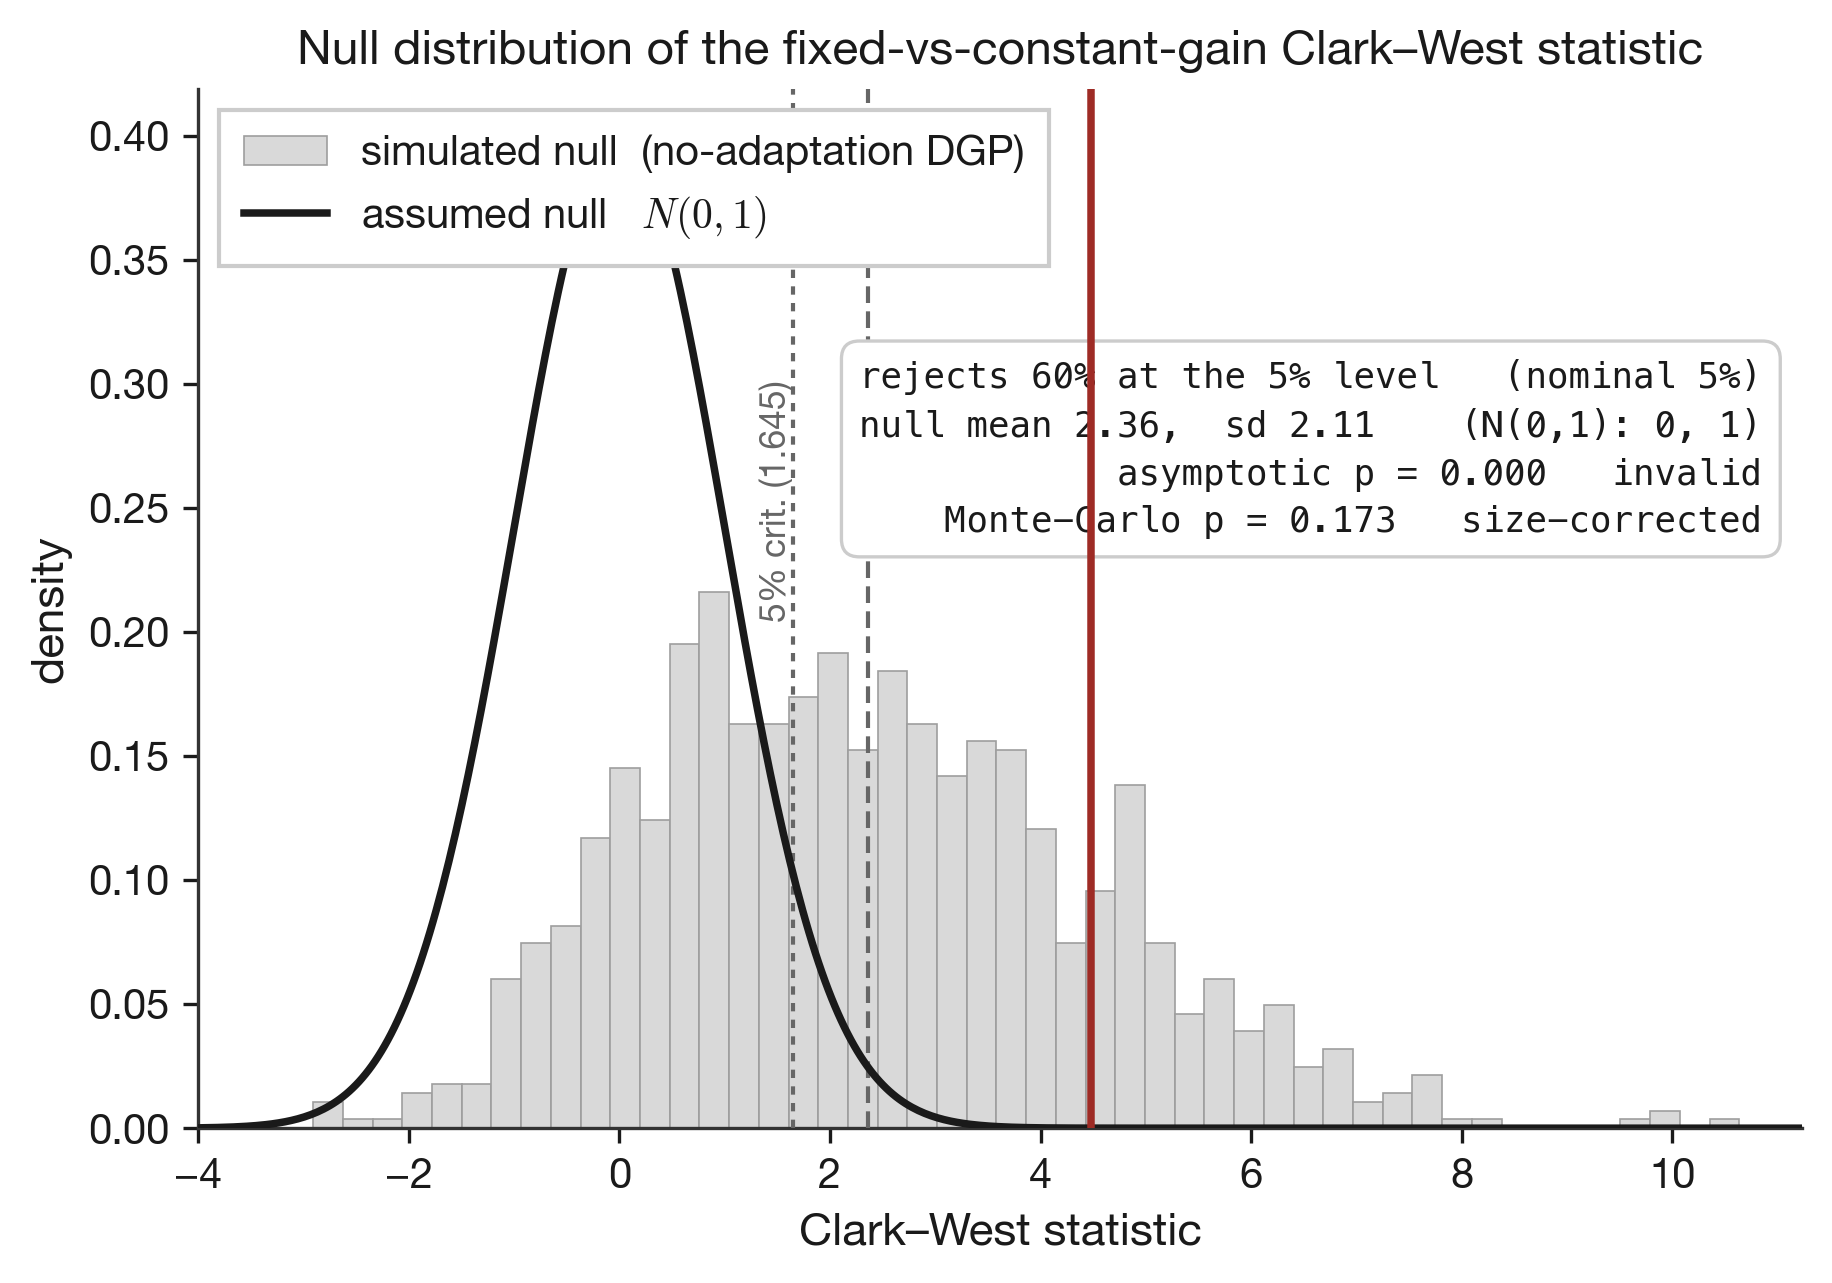
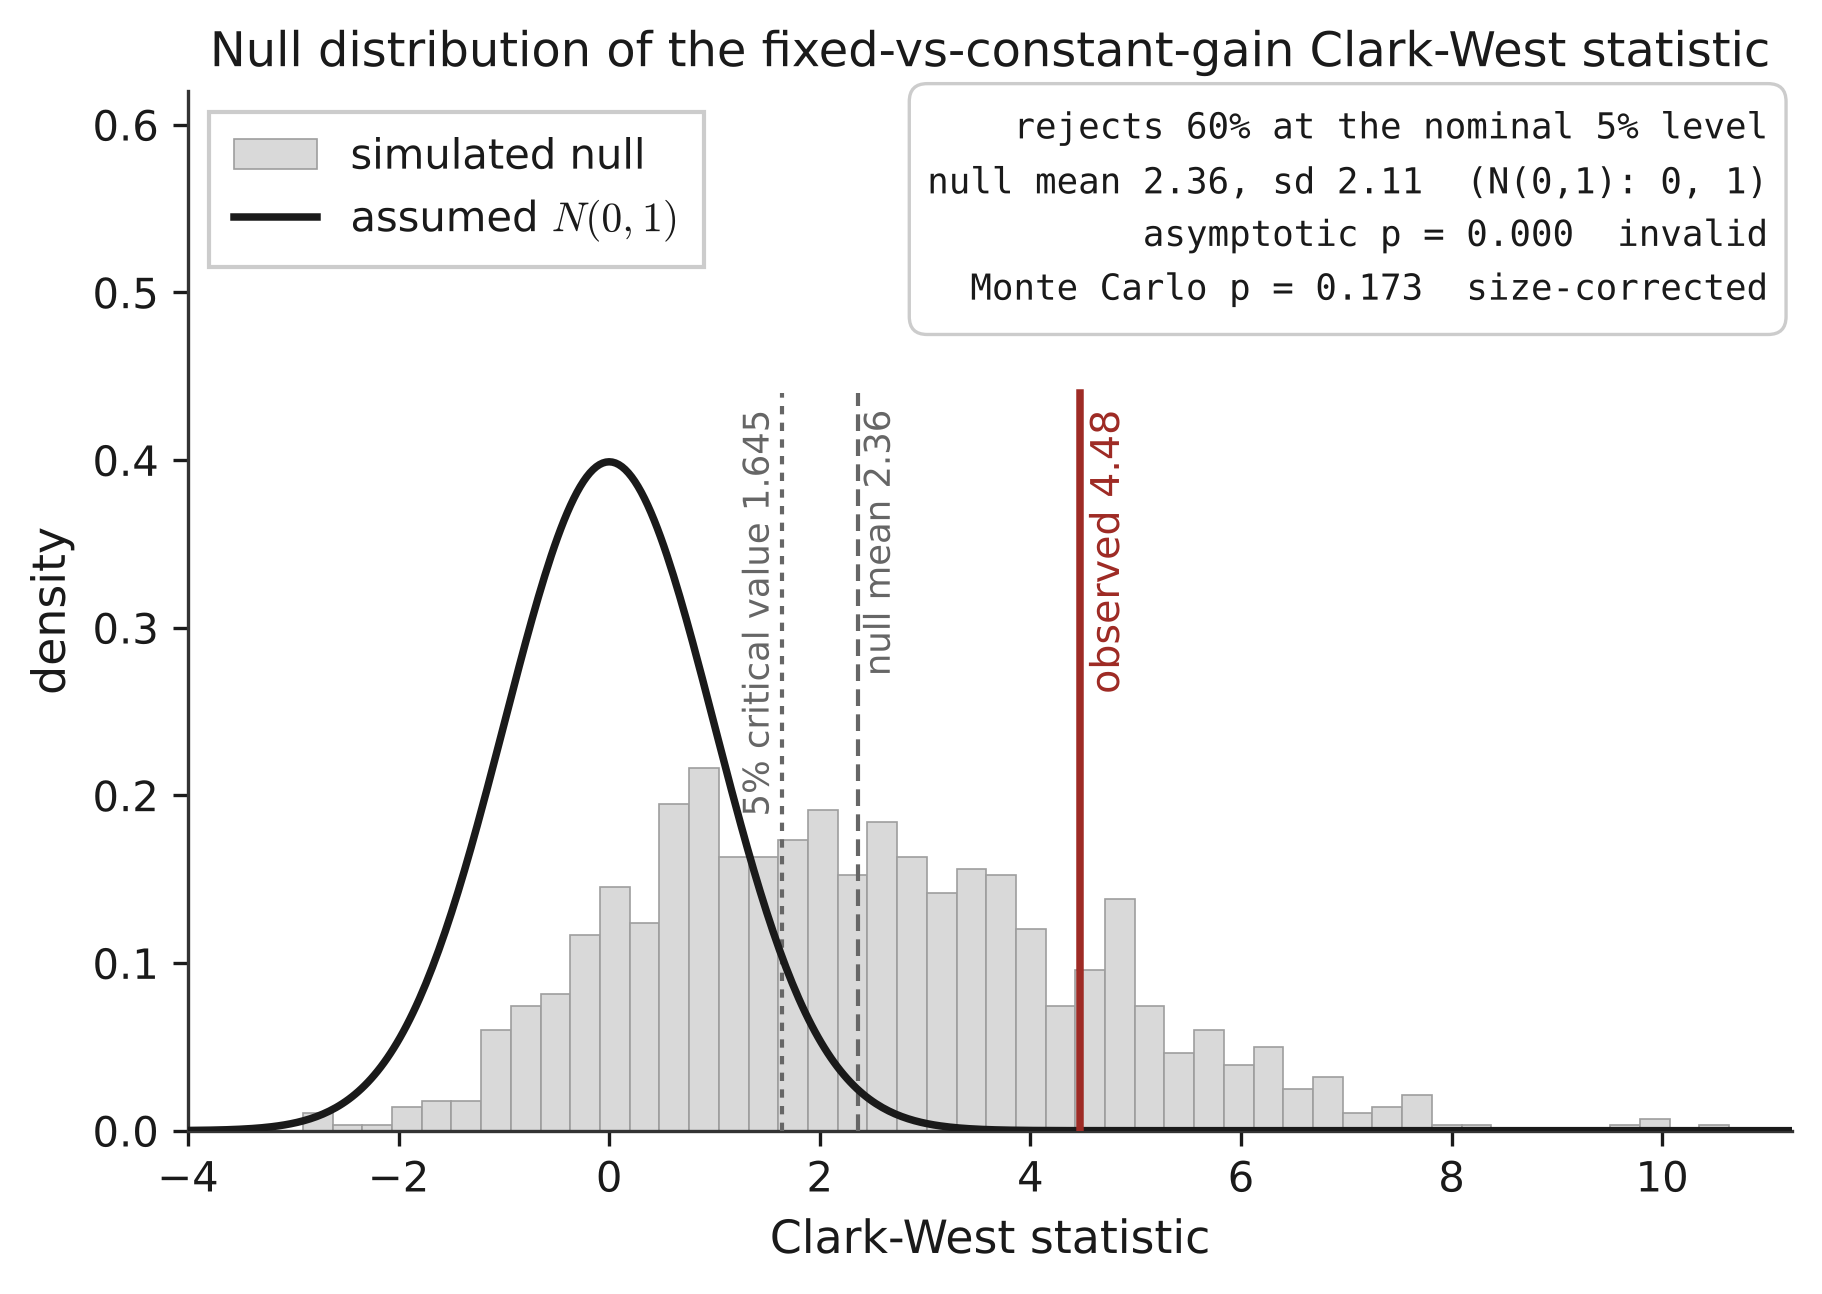
fig(size_gate): fix overlapping legend, card and labels
Layout-only change; the data and statistics are unchanged (null mean 2.36,
60% rejection, observed 4.48, MC p 0.173). The legend no longer covers the
N(0,1) peak, the summary card sits above the reference lines, and each
vertical line carries its own rotated label.

Claude-Session: https://claude.ai/code/session_01MAWFQZxJW5Mm3Muu1jKs2k

Changed region(s): [[0.0, 0.0, 0.9835, 0.9665]]

diff --git a/experiments/fig_size_gate.py b/experiments/fig_size_gate.py
@@ -52,36 +52,38 @@ def main():
 
     # simulated null (no-adaptation DGP)
     ax.hist(null, bins=48, density=True, color="#d9d9d9", edgecolor="#9e9e9e",
-            linewidth=0.4, zorder=2,
-            label="simulated null  (no-adaptation DGP)")
+            linewidth=0.4, zorder=2, label="simulated null")
 
     # the assumed asymptotic null
     xs = np.linspace(-4, xmax, 500)
     ax.plot(xs, norm.pdf(xs), color=S.INK, lw=1.8, zorder=4,
-            label=r"assumed null   $N(0,1)$")
-    tail = xs >= 1.645
-    ax.fill_between(xs[tail], norm.pdf(xs[tail]), color=S.GRAY, alpha=0.18, zorder=1)
-    ax.axvline(1.645, color=S.GRAY, ls=(0, (2, 2)), lw=1.0, zorder=3)
-    ax.text(1.645, 0.255, "5% crit. (1.645) ", color=S.GRAY, fontsize=8.5,
-            rotation=90, va="center", ha="right")
+            label=r"assumed $N(0,1)$")
 
-    ax.axvline(nm, color=S.GRAY, ls=(0, (4, 2)), lw=1.0, zorder=3)
-    ax.axvline(obs_stat, color=S.BRICK, lw=1.8, zorder=5)
-    ax.text(obs_stat + 0.1, 0.30, f"observed {obs_stat:.2f}", color=S.BRICK,
-            fontsize=9.5, va="center")
+    # reference lines stop below the legend / card band so nothing overlaps
+    top = 0.44 / 0.62
+    lab = dict(rotation=90, va="top", ha="right", fontsize=8.5)
+    ax.axvline(1.645, ymax=top, color=S.GRAY, ls=(0, (2, 2)), lw=1.0, zorder=3)
+    ax.text(1.645 - 0.05, 0.43, "5% critical value 1.645", color=S.GRAY, **lab)
+    ax.axvline(nm, ymax=top, color=S.GRAY, ls=(0, (4, 2)), lw=1.0, zorder=3)
+    ax.text(nm + 0.05, 0.43, f"null mean {nm:.2f}", color=S.GRAY,
+            **{**lab, "ha": "left"})
+    ax.axvline(obs_stat, ymax=top, color=S.BRICK, lw=1.8, zorder=5)
+    ax.text(obs_stat + 0.08, 0.43, f"observed {obs_stat:.2f}", color=S.BRICK,
+            **{**lab, "ha": "left", "fontsize": 9.5})
 
-    card = (f"rejects {rate:.0%} at the 5% level   (nominal 5%)\n"
-            f"null mean {nm:.2f},  sd {nsd:.2f}    (N(0,1): 0, 1)\n"
-            f"asymptotic p = {1 - norm.cdf(obs_stat):.3f}   invalid\n"
-            f"Monte-Carlo p = {mc_p:.3f}   size-corrected")
-    ax.text(0.975, 0.74, card, transform=ax.transAxes, va="top", ha="right",
-            family="Menlo", fontsize=8.6, color=S.INK, linespacing=1.5,
+    card = (f"rejects {rate:.0%} at the nominal 5% level\n"
+            f"null mean {nm:.2f}, sd {nsd:.2f}  (N(0,1): 0, 1)\n"
+            f"asymptotic p = {1 - norm.cdf(obs_stat):.3f}  invalid\n"
+            f"Monte Carlo p = {mc_p:.3f}  size-corrected")
+    ax.text(0.985, 0.99, card, transform=ax.transAxes, va="top", ha="right",
+            family="monospace", fontsize=8.6, color=S.INK, linespacing=1.5,
             bbox=dict(boxstyle="round,pad=0.5", fc="white", ec=S.LINE, lw=0.8))
 
-    ax.set_xlabel("Clark–West statistic")
+    ax.set_xlabel("Clark-West statistic")
     ax.set_ylabel("density")
     ax.set_xlim(-4, xmax)
-    ax.set_title("Null distribution of the fixed-vs-constant-gain Clark–West statistic")
+    ax.set_ylim(0, 0.62)
+    ax.set_title("Null distribution of the fixed-vs-constant-gain Clark-West statistic")
     ax.legend(loc="upper left")
 
     fig.savefig("results/size_gate.png", dpi=300)
